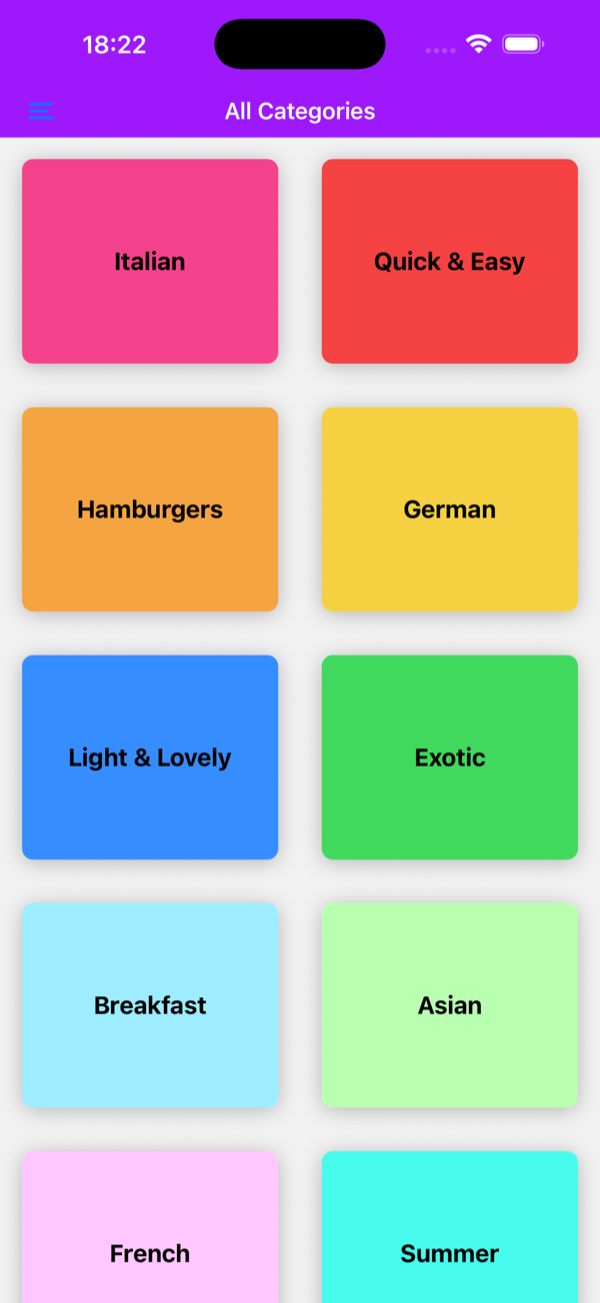
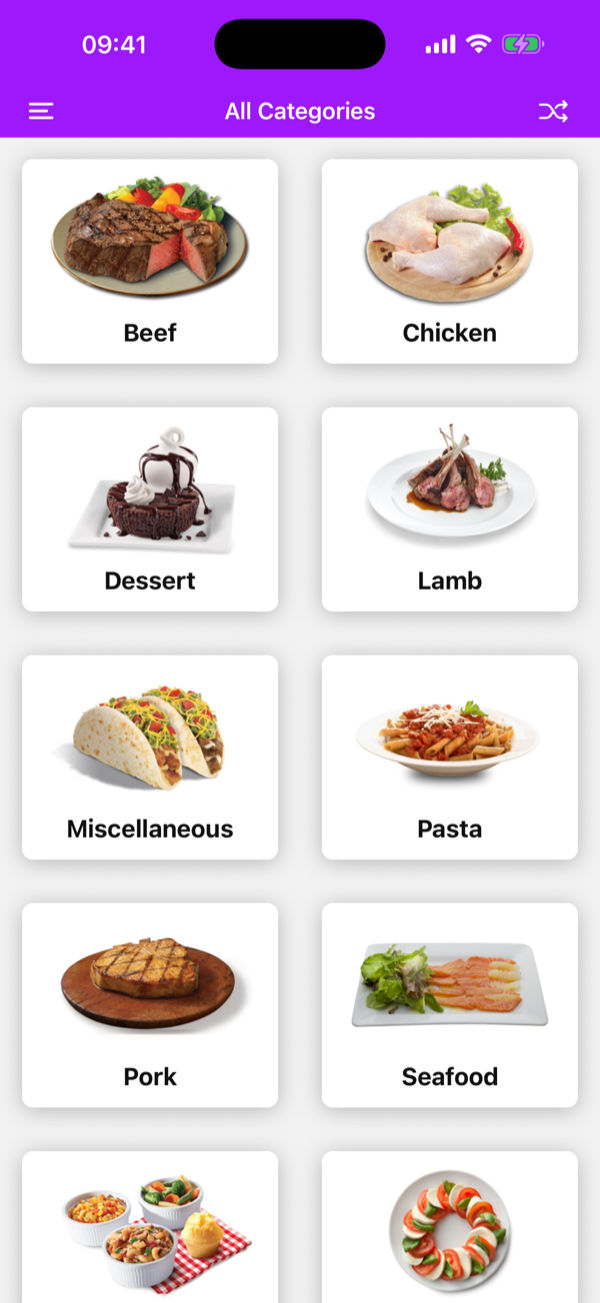
📝 : Rewrote README

diff --git a/README.md b/README.md
@@ -1,115 +1,159 @@
 # 🍽 Meals App
 
-A cross-platform recipe browser for **iOS, Android and Web**, built with **React Native**, **Expo SDK 56** and **TypeScript**. Browse meals by category, see ingredients and step-by-step instructions, and save your favorites. Favorites live in a global store managed with **Redux Toolkit**.
+A recipe browser built with **React Native**, **Expo SDK 56** and **TypeScript**. It pulls real data from [TheMealDB](https://www.themealdb.com/) API, lets you search meals by name, browse by category or cuisine, and save favorites that persist on the device. It supports light and dark mode.
 
 [![CI](https://github.com/GabrielPeixotoo/meals-app/actions/workflows/ci.yml/badge.svg)](https://github.com/GabrielPeixotoo/meals-app/actions/workflows/ci.yml)
 ![Expo](https://img.shields.io/badge/Expo-SDK%2056-000020?logo=expo&logoColor=white)
 ![React Native](https://img.shields.io/badge/React%20Native-0.85-61DAFB?logo=react&logoColor=black)
-![React](https://img.shields.io/badge/React-19.2-61DAFB?logo=react&logoColor=black)
 ![TypeScript](https://img.shields.io/badge/TypeScript-strict-3178C6?logo=typescript&logoColor=white)
-![Redux Toolkit](https://img.shields.io/badge/Redux%20Toolkit-2.x-764ABC?logo=redux&logoColor=white)
-![Platforms](https://img.shields.io/badge/platforms-iOS%20%7C%20Android%20%7C%20Web-lightgrey)
+![TanStack Query](https://img.shields.io/badge/TanStack%20Query-v5-FF4154?logo=reactquery&logoColor=white)
+![Zustand](https://img.shields.io/badge/Zustand-v5-443E38)
+![Zod](https://img.shields.io/badge/Zod-v4-3E67B1?logo=zod&logoColor=white)
+![Jest](https://img.shields.io/badge/tested%20with-Jest-C21325?logo=jest&logoColor=white)
 
 ---
 
 ## 📸 Screenshots
 
-|                                   Categories                                    |                                        Meals by category                                        |                                                    Meal details                                                    |
-| :-----------------------------------------------------------------------------: | :---------------------------------------------------------------------------------------------: | :----------------------------------------------------------------------------------------------------------------: |
-| <img src="assets/screenshots/categories.png" width="240" alt="Category grid" /> | <img src="assets/screenshots/meals.png" width="240" alt="Meals in the Quick & Easy category" /> | <img src="assets/screenshots/meal-details.png" width="240" alt="Classic Hamburger details with favorite button" /> |
+|                                        Categories                                         |                                                                   Meal details                                                                    |                                          Search                                          |
+| :---------------------------------------------------------------------------------------: | :-----------------------------------------------------------------------------------------------------------------------------------------------: | :--------------------------------------------------------------------------------------: |
+| <img src="assets/screenshots/categories.png" width="240" alt="Grid of meal categories" /> | <img src="assets/screenshots/meal-details.png" width="240" alt="Teriyaki Chicken Casserole with ingredients, favorite star and YouTube button" /> | <img src="assets/screenshots/search.png" width="240" alt="Search results for chicken" /> |
 
-|                                              Favorites                                              |                                              Drawer navigation                                              |
-| :-------------------------------------------------------------------------------------------------: | :---------------------------------------------------------------------------------------------------------: |
-| <img src="assets/screenshots/favorites.png" width="240" alt="Favorites screen with a saved meal" /> | <img src="assets/screenshots/drawer.png" width="240" alt="Drawer menu with All Categories and Favorites" /> |
+|                                                Cuisines (dark)                                                |                                            Favorites (dark)                                             |                                      Navigation (dark)                                      |
+| :-----------------------------------------------------------------------------------------------------------: | :-----------------------------------------------------------------------------------------------------: | :-----------------------------------------------------------------------------------------: |
+| <img src="assets/screenshots/cuisines-dark.png" width="240" alt="List of cuisines by country in dark mode" /> | <img src="assets/screenshots/favorites-dark.png" width="240" alt="Saved favorite meals in dark mode" /> | <img src="assets/screenshots/drawer-dark.png" width="240" alt="Drawer menu in dark mode" /> |
 
 ---
 
-## ✨ Features
+## ✨ Highlights
 
-- **Category grid:** a two-column grid of color-coded meal categories
-- **Meals by category:** filtered list with duration, complexity and affordability
-- **Meal details:** hero image, key info, ingredients and preparation steps
-- **Favorites:** toggle a meal as favorite from the header; the state is shared app-wide
-- **Drawer navigation:** switch between _All Categories_ and _Favorites_
-- **Empty state:** friendly message when there are no favorites yet
-- **Cross-platform:** one codebase for iOS, Android and Web
+For a quick review, these are the parts worth looking at:
+
+- **Typed, validated API layer:** every response goes through a [Zod](https://zod.dev) schema that validates it _and_ maps it to the app's own types ([`src/api/schemas.ts`](src/api/schemas.ts)). Screens never see raw API fields.
+- **Server state vs. client state:** API data lives in **TanStack Query** (cache, retries, refetch on app focus, pull-to-refresh). Favorites live in a **Zustand** store persisted with AsyncStorage.
+- **Every screen handles loading, error and empty states**, with a retry button on errors.
+- **34 tests** (unit and component) run on every push in **GitHub Actions**, along with lint, formatting and type checks.
+- **Data quirks handled in code:** numeric or string ids, `null` fields, legacy response formats, and cuisines that only match by country name. See [Technical decisions](#-technical-decisions).
+
+---
+
+## 🚀 Features
+
+- **Browse by category:** a grid of categories loaded from the API.
+- **Browse by cuisine:** 60+ cuisines, each listed with its country.
+- **Search by name:** debounced, keeps the previous results on screen while the next search loads.
+- **Surprise me:** the 🔀 button opens a random meal.
+- **Meal details:** photo, category, cuisine, ingredients with measures, step-by-step instructions and a **Watch on YouTube** link when available.
+- **Favorites:** saved on the device, so they survive app restarts and load offline.
+- **Dark mode:** follows the system setting.
+- **Deep links:** any screen can be opened by URL and still gets a back button.
 
 ---
 
 ## 🛠 Tech Stack
 
-| Area                 | Technology                                                                                                                                   |
-| -------------------- | -------------------------------------------------------------------------------------------------------------------------------------------- |
-| Framework            | [React Native 0.85](https://reactnative.dev/) · [React 19](https://react.dev/)                                                               |
-| Tooling / Runtime    | [Expo SDK 56](https://docs.expo.dev/versions/v56.0.0/)                                                                                       |
-| Language             | [TypeScript](https://www.typescriptlang.org/) (`strict` mode)                                                                                |
-| Navigation           | [Expo Router](https://docs.expo.dev/router/introduction/): file-based routing with **Stack** + **Drawer** and typed routes                   |
-| State management     | [Redux Toolkit](https://redux-toolkit.js.org/) + [React Redux](https://react-redux.js.org/) (a React Context version is kept for comparison) |
-| UI                   | React Native core components, `StyleSheet`, [@expo/vector-icons](https://icons.expo.fyi/) (Ionicons)                                         |
-| Gestures / Animation | React Native Gesture Handler, Reanimated 4                                                                                                   |
-| Performance          | [React Compiler](https://react.dev/learn/react-compiler) enabled via Expo experiments                                                        |
-| Web                  | React Native Web with static output                                                                                                          |
+| Area                    | Technology                                                                                                                                                   |
+| ----------------------- | ------------------------------------------------------------------------------------------------------------------------------------------------------------ |
+| Framework               | [React Native 0.85](https://reactnative.dev/) · [React 19](https://react.dev/) · [Expo SDK 56](https://docs.expo.dev/versions/v56.0.0/)                      |
+| Language                | [TypeScript 6](https://www.typescriptlang.org/) in `strict` mode                                                                                             |
+| Navigation              | [Expo Router](https://docs.expo.dev/router/introduction/): file-based routing, Stack + Drawer, typed routes                                                  |
+| Server state            | [TanStack Query v5](https://tanstack.com/query)                                                                                                              |
+| Client state            | [Zustand v5](https://zustand.docs.pmnd.rs/) + [AsyncStorage](https://docs.expo.dev/versions/v56.0.0/sdk/async-storage/)                                      |
+| Networking & validation | Native `fetch` + [Zod v4](https://zod.dev)                                                                                                                   |
+| UI                      | React Native core components, [expo-image](https://docs.expo.dev/versions/v56.0.0/sdk/image/) (cached images), [@expo/vector-icons](https://icons.expo.fyi/) |
+| Testing                 | [Jest](https://jestjs.io/) with `jest-expo` + [React Native Testing Library](https://callstack.github.io/react-native-testing-library/)                      |
+| Code quality            | ESLint (`eslint-config-expo`), Prettier, React Compiler                                                                                                      |
+| CI                      | [GitHub Actions](.github/workflows/ci.yml)                                                                                                                   |
 
 ---
 
 ## 🏗 Architecture
 
-```
-src/
-├── app/                      # Expo Router: each file is a route
-│   ├── _layout.tsx           # Root Stack + Redux <Provider>
-│   ├── (drawer)/             # Route group rendered inside a Drawer
-│   │   ├── _layout.tsx       # Drawer configuration (icons, labels, header)
-│   │   ├── index.tsx         # All Categories (grid)
-│   │   └── favorites.tsx     # Favorite meals + empty state
-│   ├── meals_overview.tsx    # Meals filtered by category (dynamic title)
-│   └── meal_details.tsx      # Meal details + favorite toggle
-├── components/               # Reusable, presentational components
-│   ├── CategoryGridTile.tsx
-│   ├── IconButton.tsx
-│   ├── MealItem.tsx
-│   ├── MealDetails/          # Subtitle, List, MealDetailsInfo
-│   └── MealsList/            # Shared list used by overview & favorites
-├── data/                     # Static seed data (categories & meals)
-├── models/                   # TypeScript domain types (Meal, Category)
-└── store/
-    ├── redux/                # configureStore + favorites slice
-    └── context/              # Context API version (kept as reference)
-```
-
-### Navigation flow
+### Data flow
 
 ```mermaid
 flowchart LR
-    A[Drawer: All Categories] -->|tap category| B[Meals Overview]
-    B -->|tap meal| C[Meal Details]
-    D[Drawer: Favorites] -->|tap meal| C
-    C -->|toggle ⭐| S[(Redux store)]
-    S --> D
+    Screens["Screens<br/>(src/app)"] --> Hooks["Query hooks<br/>(TanStack Query)"]
+    Hooks --> Client["fetch client"]
+    Client --> API[("TheMealDB API")]
+    Client --> Schemas["Zod schemas<br/>+ mappers"]
+    Schemas --> Hooks
+    Screens --> Store["Favorites store<br/>(Zustand)"]
+    Store --> Storage[("AsyncStorage")]
+```
+
+### Project structure
+
+```
+src/
+├── app/                    # Screens. Expo Router turns each file into a route
+│   ├── _layout.tsx         # Root Stack, query client and theme providers
+│   ├── (drawer)/           # Screens inside the drawer menu
+│   │   ├── index.tsx       # All Categories (+ "Surprise me")
+│   │   ├── search.tsx      # Debounced search by name
+│   │   ├── cuisines.tsx    # Cuisines by country
+│   │   └── favorites.tsx   # Saved meals
+│   ├── meals_overview.tsx  # Meals of a category or cuisine
+│   └── meal_details.tsx    # Meal details and favorite toggle
+├── api/
+│   ├── client.ts           # fetch wrapper with typed errors (ApiError)
+│   ├── schemas.ts          # Zod schemas: validate and map API responses
+│   ├── mappers.ts          # Pure functions for ingredients, steps and tags
+│   ├── meals.ts            # One function per API endpoint
+│   ├── queries.ts          # TanStack Query hooks and query keys
+│   └── queryClient.ts      # Cache and retry configuration
+├── store/favorites.ts      # Zustand store persisted with AsyncStorage
+├── components/             # Reusable UI (cards, lists, loading/error/empty states)
+├── hooks/                  # Theme, debounce, navigation and refresh helpers
+└── constants/              # Theme palettes and the cuisines allowlist
 ```
 
 ---
 
-## ✅ Engineering Practices
+## 🧠 Technical Decisions
 
-- **Type safety:** strict TypeScript, typed domain models, typed route params (`useLocalSearchParams<{ id: string }>`) and a typed `RootState`.
-- **File-based routing:** routes mirror the folder structure; route groups (`(drawer)`) nest a Drawer inside a Stack without extra config.
-- **Separation of concerns:** screens (`app/`), UI components (`components/`), data (`data/`), types (`models/`) and state (`store/`) each live in their own folder.
-- **Reusable components:** `MealsList` is shared by the category and favorites screens, so the list logic is written once.
-- **State management:** favorites started with the **Context API** and were migrated to **Redux Toolkit** (`createSlice`, `configureStore`, `useSelector`, `useDispatch`). Both versions are in the repo so the trade-offs can be compared.
-- **Performance:** virtualized lists with `FlatList`, memoized render callbacks (`useCallback`) and the React Compiler.
-- **Path aliases:** clean imports with `@/…` instead of long relative paths.
-- **Small commits:** the Git history is incremental and descriptive, one feature per commit.
+**TanStack Query for server state, Zustand for client state.**
+API data and app data have different needs. API data needs caching, retries and refetching, which TanStack Query handles out of the box. Favorites are owned by the app, so a small Zustand store with the `persist` middleware is enough. A single global store (like the original Redux version of this app) would have to reimplement caching by hand.
+
+**Native `fetch` + Zod instead of Axios.**
+`fetch` is built into React Native, and a [small wrapper](src/api/client.ts) of under 50 lines covers what this app needs: query params, HTTP errors and network errors as a typed `ApiError`. Zod adds what Axios doesn't: it checks responses at runtime. The TypeScript types are inferred from the schemas, so types and validation can't drift apart.
+
+**The API's documented quirks are handled at the edge.**
+Following TheMealDB's OpenAPI spec, the schemas accept ids as numbers or strings, treat most fields as nullable or missing, and turn legacy "no data" strings into empty lists. Bad data turns into a clear error instead of an `undefined` crash deep in the UI.
+
+**Cuisines filter by country, not by cuisine name.**
+While testing, 163 of 192 cuisines returned no meals when filtered by name ("Brazilian"). The same request by country ("Brazil") returned meals, so the app filters by country. Even then, 132 countries have no meals yet, and checking them at runtime would mean ~195 requests and the API's rate limit. The app keeps a [dated allowlist](src/constants/cuisines.ts) of the 63 countries that have meals and filters with TanStack Query's `select`.
+
+**Favorites store a snapshot of each meal, not just the id.**
+The API can only look up one meal per request. Storing `{ id, name, thumbnail }` lets the Favorites screen render instantly and offline, without one request per favorite.
 
 ---
 
-## 🚀 Getting Started
+## ✅ Testing & CI
+
+```bash
+npm test             # run all tests once
+npm run test:watch   # re-run on save
+```
+
+| Suite                                                        | What it covers                                                                                        |
+| ------------------------------------------------------------ | ----------------------------------------------------------------------------------------------------- |
+| [`mappers.test.ts`](src/api/__tests__/mappers.test.ts)       | Parsing ingredients (empty slots, 20-item limit), steps ("STEP 1" labels, numbering) and tags         |
+| [`schemas.test.ts`](src/api/__tests__/schemas.test.ts)       | The API spec edge cases: numeric ids, null fields, legacy responses, country fallback                 |
+| [`client.test.ts`](src/api/__tests__/client.test.ts)         | URL building and `ApiError` for HTTP, network and validation failures                                 |
+| [`favorites.test.ts`](src/store/__tests__/favorites.test.ts) | Adding, removing and persisting favorites                                                             |
+| [`search.test.tsx`](src/__tests__/search.test.tsx)           | The Search screen end to end with a mocked `fetch`: hint, results, navigation, empty and error states |
+
+Every push and pull request runs lint, formatting, type checking and the tests on [GitHub Actions](.github/workflows/ci.yml).
+
+---
+
+## 💻 Getting Started
 
 ### Prerequisites
 
-- [Node.js](https://nodejs.org/) LTS
-- npm
-- One of the following: [Expo Go](https://expo.dev/go), an iOS Simulator (Xcode) or an Android Emulator (Android Studio)
+- [Node.js](https://nodejs.org/) 22 (see [`.nvmrc`](.nvmrc))
+- [Expo Go](https://expo.dev/go) on a phone, or the iOS Simulator (Xcode) / an Android Emulator (Android Studio)
 
 ### Installation
 
@@ -128,28 +172,38 @@ cp .env.example .env   # optional: the public test key "1" is used by default
 
 > `EXPO_PUBLIC_` variables are inlined into the app bundle at build time, so they must never hold secrets.
 
-### Running
+### Scripts
 
 ```bash
 npm start          # Start the Expo dev server (scan the QR code with Expo Go)
 npm run ios        # Open on the iOS Simulator
 npm run android    # Open on the Android Emulator
-npm run web        # Open in the browser
-npm run lint       # Lint the project
+npm run lint       # Lint
+npm run format     # Format with Prettier
 npm run typecheck  # Type-check with TypeScript
-npm test           # Run the unit and component tests
+npm test           # Run the tests
 ```
 
 ---
 
 ## 🗺 Roadmap
 
-- [ ] Persist favorites across app restarts (AsyncStorage / redux-persist)
-- [ ] Dietary filters (vegan, vegetarian, gluten-free, lactose-free), already present in the data model
-- [ ] Typed Redux hooks (`useAppSelector` / `useAppDispatch`) and typed action payloads
-- [ ] Unit tests with Jest + React Native Testing Library
-- [ ] Fetch meals from a remote API instead of static data
-- [ ] Dark mode theme
+- [ ] Persist the query cache so browsed meals also work offline
+- [ ] End-to-end tests with [Maestro](https://maestro.mobile.dev/)
+- [ ] Publish a web demo and an installable build with [EAS](https://docs.expo.dev/eas/)
+- [ ] Accessibility pass with VoiceOver and TalkBack
+
+---
+
+## 📜 Project History
+
+This app started as a course exercise with static data and Context/Redux for favorites. It was then rebuilt step by step: the real API with validation, TanStack Query, Zustand persistence, new features, dark mode, tests and CI. The [commit history](https://github.com/GabrielPeixotoo/meals-app/commits/master) shows each step.
+
+---
+
+## 🙏 Acknowledgements
+
+Meal data and images come from [TheMealDB](https://www.themealdb.com/), a free, crowd-sourced recipe database.
 
 ---
 
@@ -157,11 +211,11 @@ npm test           # Run the unit and component tests
 
 **Gabriel Peixoto** · Mobile Developer (React Native and Flutter)
 
+- LinkedIn: [gabriel-peixoto-b4b134200](https://www.linkedin.com/in/gabriel-peixoto-b4b134200/)
 - GitHub: [@GabrielPeixotoo](https://github.com/GabrielPeixotoo)
-- LinkedIn: <!-- add your LinkedIn URL -->
 
 ---
 
 ## 📄 License
 
-See [LICENSE](LICENSE).
+[MIT](LICENSE) © Gabriel Peixoto
